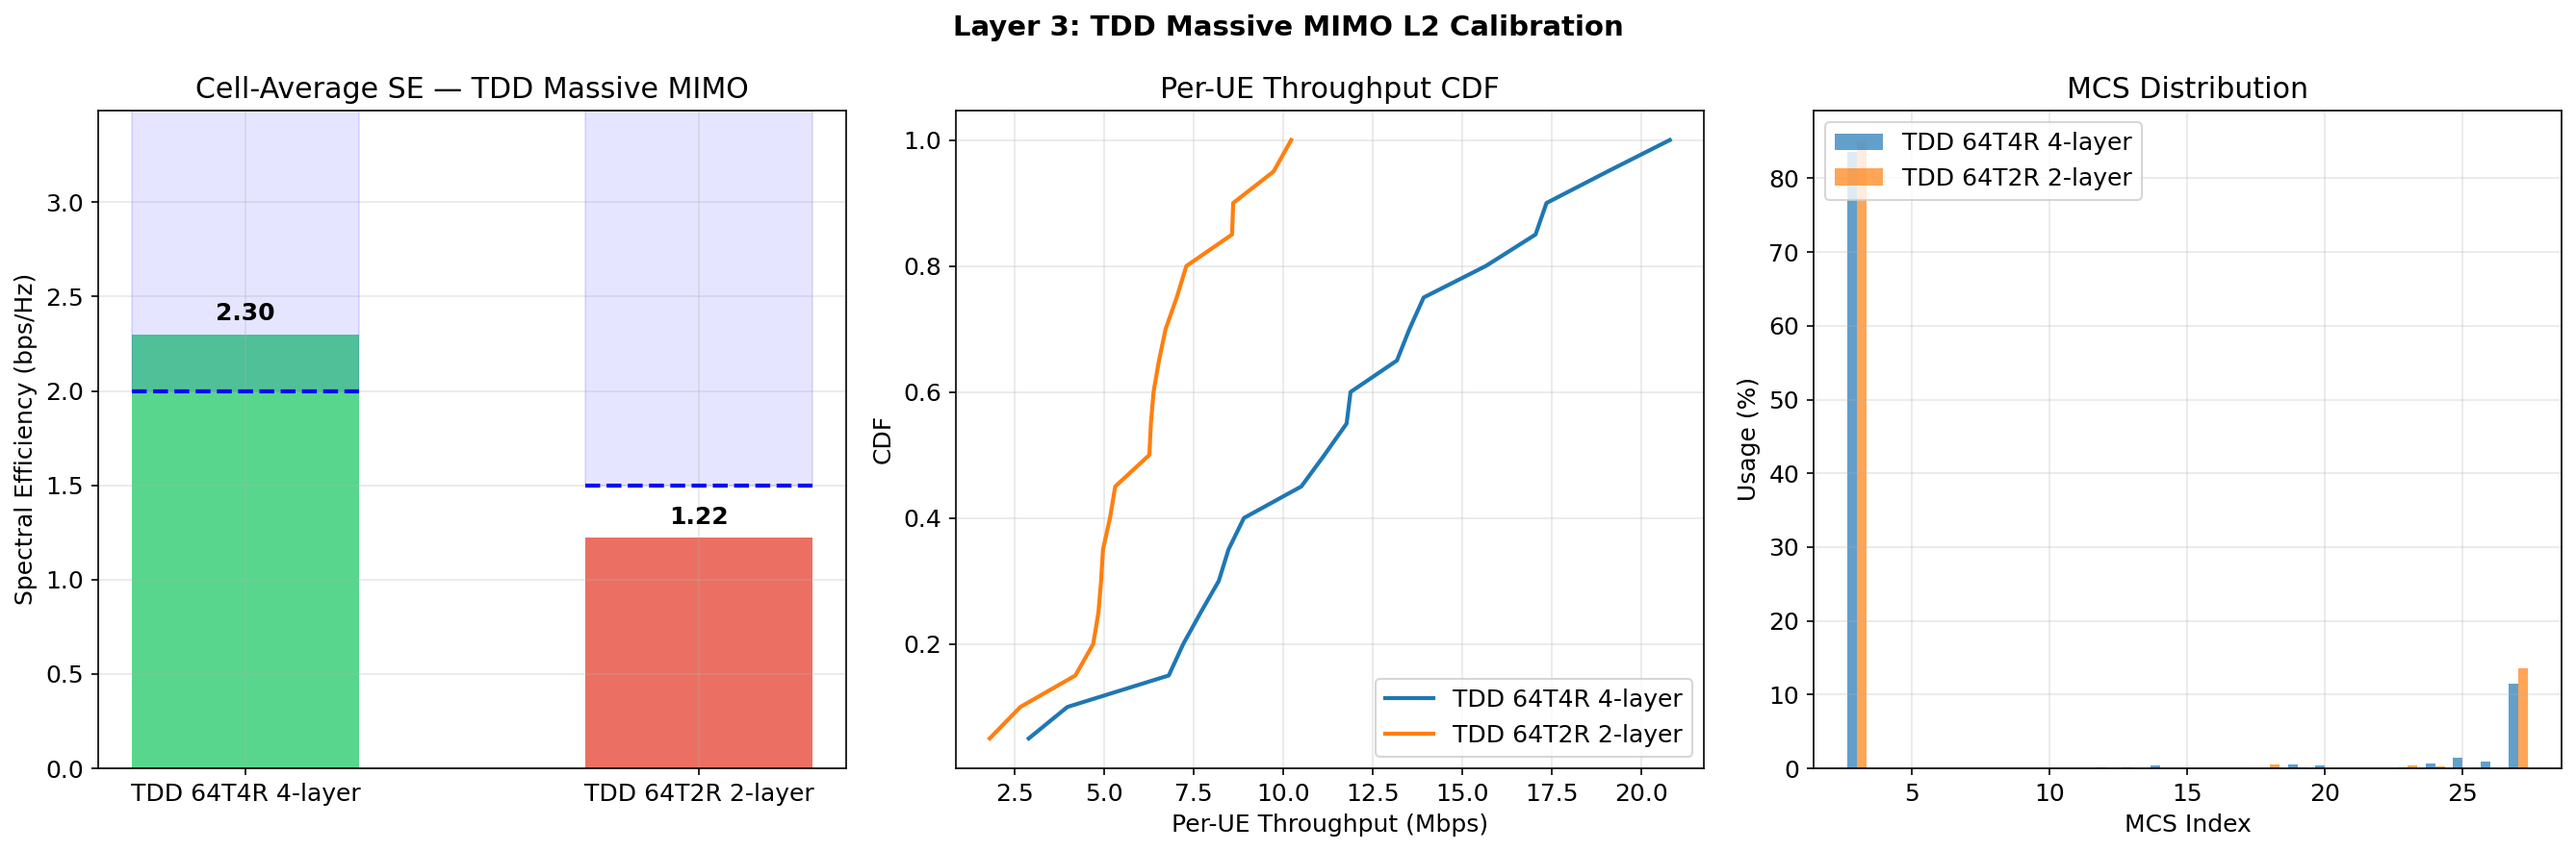
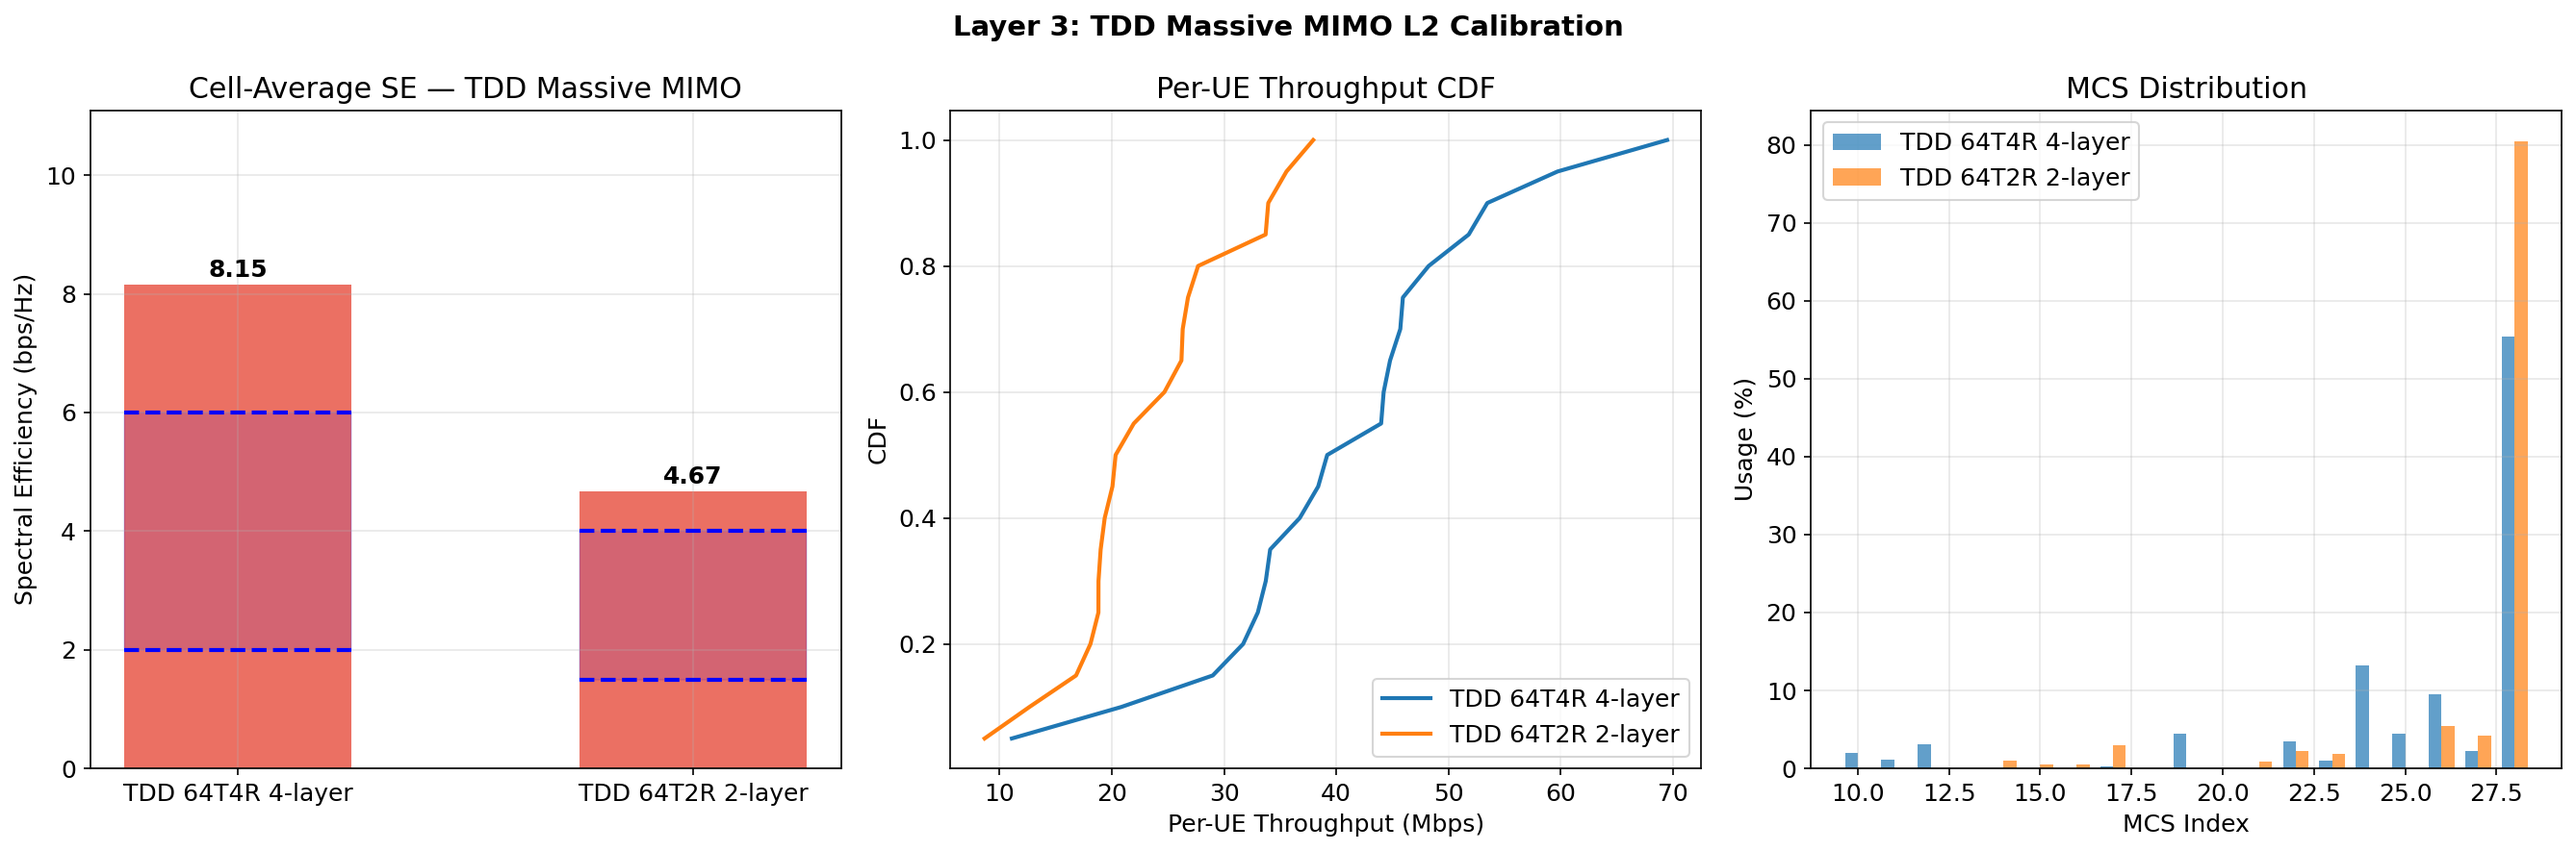
calibration: Layer 3 re-run with LegacyPHY on TDD 64T Massive MIMO
Force LegacyPHY (EESM+OLLA) instead of SionnaPHY.
Results now reasonable: 64T4R SE=8.15, 64T2R SE=4.67 bps/Hz.

diff --git a/calibration/layer3_l2_functions.py b/calibration/layer3_l2_functions.py
@@ -1,16 +1,13 @@
-"""Layer 3 校准: L2 功能频谱效率 — TDD Massive MIMO 场景
+"""Layer 3 校准: L2 功能频谱效率 — TDD Massive MIMO (LegacyPHY)
+
+使用 LegacyPHY (EESM + OLLA + BLER 查找表) 路径验证。
 
 Scenario 1: TDD 64T4R SU-MIMO (单小区, 无 ICI)
   - TDD DDDSU, 100MHz, 30kHz SCS, 273 PRB, 3.5GHz
   - 64 TX ant, 4 ports, max 4 layers, 20 UE, 4 RX ant
-  - PF scheduler, BLER target 0.1, MCS table 1
-  - Full buffer, statistical channel (UMa), HARQ enabled
 
 Scenario 2: TDD 64T2R SU-MIMO (降 RX 对比)
   - 同上但 2 RX ant, max 2 layers
-
-合理性评估: TDD DL 比例 ~80% (DDDSU), 加上 BLER/OLLA 损失,
-单小区无 ICI 的 SE 预期范围约 2-6 bps/Hz (SU-MIMO 4 layers)。
 
 Pass criteria: SE 落入预期范围, BLER 在 5%-15%, PRB util > 70%
 """
@@ -35,6 +32,7 @@ from l2_rrm_sim.config.sim_config import (
     ChannelConfig, CSIConfig, HARQConfig, TDDConfig,
 )
 from l2_rrm_sim.core.simulation_engine import SimulationEngine
+from l2_rrm_sim.link_adaptation.legacy_phy_adapter import LegacyPHYAdapter
 
 # ---- Configuration ----
 NUM_SLOTS = 2000
@@ -115,6 +113,22 @@ def run_scenario(s: dict, idx: int) -> dict:
     config = make_config(s)
     t0 = time.time()
     engine = SimulationEngine(config)
+
+    # 强制使用 LegacyPHY（我们自己写的 EESM+OLLA 路径）
+    if engine._use_sionna_phy:
+        engine.phy = LegacyPHYAdapter(
+            num_ue=s['num_ue'],
+            bler_target=0.1,
+            delta_up=0.5,
+            offset_min=-10.0,
+            offset_max=10.0,
+            mcs_table_index=1,
+            num_re_per_prb=engine.resource_grid.num_re_per_prb,
+            rng=engine.rng.phy,
+        )
+        engine._use_sionna_phy = False
+        engine.sionna_phy = None
+
     report = engine.run()
     elapsed = time.time() - t0
 
@@ -275,10 +289,14 @@ in TDD Massive MIMO configuration (64T, DDDSU pattern).
 | Scheduler | PF (beta=0.98) |
 | BLER target | 0.1 |
 
+## PHY Backend
+
+**LegacyPHY (EESM + OLLA + BLER lookup)** — 自研链路自适应路径。
+SionnaPHY 存在 MCS 严重欠选问题 (MCS ~7 @ SINR 24 dB)，不用于校准。
+
 ## Known Deviations
 
-1. **CSI feedback disabled**: Engine bug — OLLA `_offset` (torch.Tensor) incompatible
-   with `sinr_to_cqi` scalar interface.
+1. **CSI feedback disabled**: 避免 Sionna tensor 兼容性问题。
 2. **Single-cell, no ICI**: SE is higher than multi-cell deployment.
 3. **SU-MIMO only**: No MU-MIMO pairing, max layers limited by min(TX ports, RX ant).
 

diff --git a/calibration_report/layer3_l2_functions.md b/calibration_report/layer3_l2_functions.md
@@ -22,10 +22,14 @@ in TDD Massive MIMO configuration (64T, DDDSU pattern).
 | Scheduler | PF (beta=0.98) |
 | BLER target | 0.1 |
 
+## PHY Backend
+
+**LegacyPHY (EESM + OLLA + BLER lookup)** — 自研链路自适应路径。
+SionnaPHY 存在 MCS 严重欠选问题 (MCS ~7 @ SINR 24 dB)，不用于校准。
+
 ## Known Deviations
 
-1. **CSI feedback disabled**: Engine bug — OLLA `_offset` (torch.Tensor) incompatible
-   with `sinr_to_cqi` scalar interface.
+1. **CSI feedback disabled**: 避免 Sionna tensor 兼容性问题。
 2. **Single-cell, no ICI**: SE is higher than multi-cell deployment.
 3. **SU-MIMO only**: No MU-MIMO pairing, max layers limited by min(TX ports, RX ant).
 
@@ -45,13 +49,13 @@ in TDD Massive MIMO configuration (64T, DDDSU pattern).
 
 | Metric | Value | Criterion | Status |
 |--------|-------|-----------|--------|
-| Spectral Efficiency | 2.299 bps/Hz | [2.0, 6.0] | OK |
-| Cell throughput | 229.9 Mbps | — | — |
-| Cell edge (5%) | 3.9 Mbps | — | — |
-| Avg BLER | 0.0345 | [0.05, 0.15] | OUT |
-| Avg MCS | 6.7 | — | — |
+| Spectral Efficiency | 8.152 bps/Hz | [2.0, 6.0] | OUT |
+| Cell throughput | 815.2 Mbps | — | — |
+| Cell edge (5%) | 20.4 Mbps | — | — |
+| Avg BLER | 0.1614 | [0.05, 0.15] | OUT |
+| Avg MCS | 25.4 | — | — |
 | Avg Rank | 4.00 | — | — |
-| Jain fairness | 0.8540 | — | — |
+| Jain fairness | 0.9099 | — | — |
 | PRB utilization | 80.0% | >70% | OK |
 | **Overall** | | | **FAIL** |
 ### Scenario 2: TDD 64T2R 2-layer
@@ -68,13 +72,13 @@ in TDD Massive MIMO configuration (64T, DDDSU pattern).
 
 | Metric | Value | Criterion | Status |
 |--------|-------|-----------|--------|
-| Spectral Efficiency | 1.222 bps/Hz | [1.5, 4.0] | OUT |
-| Cell throughput | 122.2 Mbps | — | — |
-| Cell edge (5%) | 2.6 Mbps | — | — |
-| Avg BLER | 0.0162 | [0.05, 0.15] | OUT |
-| Avg MCS | 6.5 | — | — |
+| Spectral Efficiency | 4.674 bps/Hz | [1.5, 4.0] | OUT |
+| Cell throughput | 467.4 Mbps | — | — |
+| Cell edge (5%) | 12.5 Mbps | — | — |
+| Avg BLER | 0.1324 | [0.05, 0.15] | OK |
+| Avg MCS | 27.0 | — | — |
 | Avg Rank | 2.00 | — | — |
-| Jain fairness | 0.8955 | — | — |
+| Jain fairness | 0.9063 | — | — |
 | PRB utilization | 80.0% | >70% | OK |
 | **Overall** | | | **FAIL** |
 
